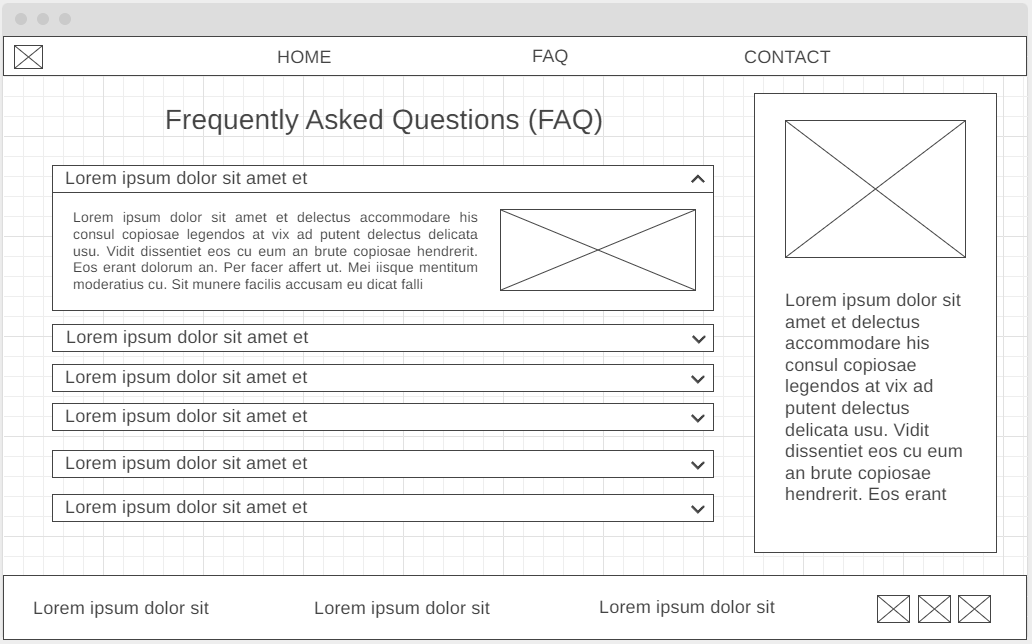
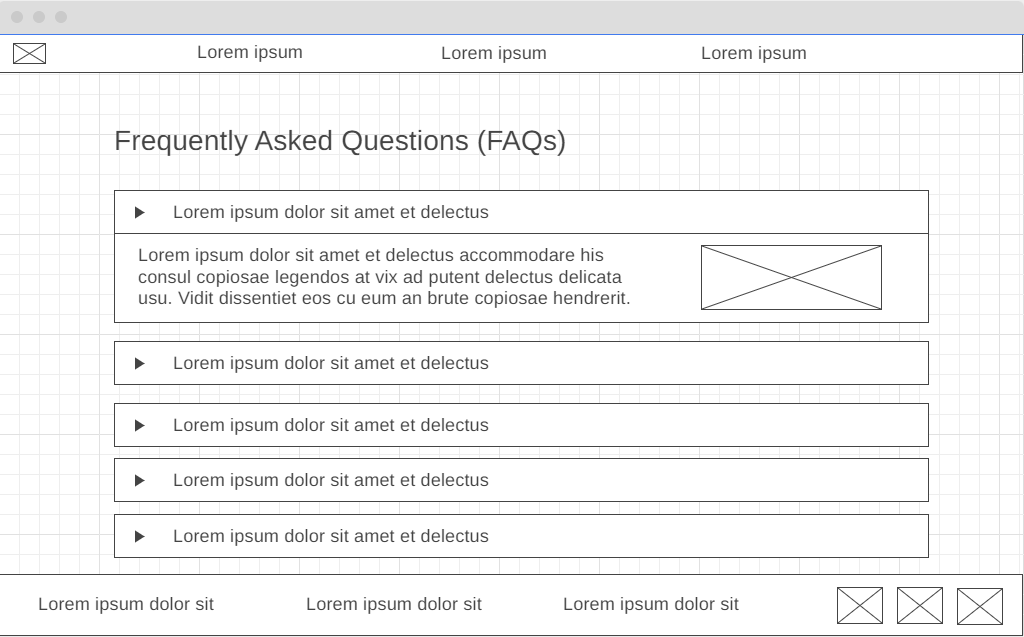
added FAQ page

diff --git a/wwr/faq.html b/wwr/faq.html
@@ -1,0 +1,92 @@
+<!DOCTYPE html>
+<html lang="en">
+
+<head>
+    <meta charset="UTF-8">
+    <meta http-equiv="X-UA-Compatible" content="IE=edge">
+    <meta name="viewport" content="width=device-width, initial-scale=1.0">
+    <title>Whitewater Rafting Vacations | Dry Oar Boating | Home</title>
+    <link rel="stylesheet" href="styles/style.css">
+</head>
+
+<body>
+    <div id="content">
+        <header>
+            <a id="logo_link" href="index.html">
+                <img class="logo" src="images/logo.png" alt="Dry Oar Logo">
+            </a>
+            <nav>
+                <a href="index.html">Home</a>
+                <a href="#">FAQs</a>
+                <a href="site-plan-rafting.html">Site Plan</a>
+                <a href="contactus.html">Contact Us</a>
+            </nav>
+        </header>
+        <main class="faqgrid">
+            <h1>Frequently Asked Questions (FAQs)</h1>
+            <details class="faq-dropdown">
+                <summary>Is this a good trip for kids? What are the age ranges you allow?</summary>
+                <div class="faq-content">
+                    <p>Absolutely this is a good trip for children of all ages. We have found however that children over the age of 8 seem to enjoy it more overall (And parents especially enjoy it more if their children are all over 8). A common concern we get from parents is that their children will be bored stuck on a boat for hours at a time. Surprisingly we deal with very few bored children of any age. The areas we are rafting through are some of the most beautiful in the world, and you never know what you might see around any corner. Not to mention the rapids which keep things very interesting. Each boat also comes equipped with a guide. It has been proven that river guides are unable to go for very long at all without telling stories... some of which are even true!</p>
+                    <img src="images/kids_rafting.jpg" class="faq-image">
+                </div>
+            </details>
+            <details class="faq-dropdown">
+                <summary>Is whitewater rafting safe? I don't even know how to swim! Can I still come?</summary>
+                <div class="faq-content">
+                    <p>As with all adventure sports, there is an inherent and assumed element of risk. To help ensure your safety, our guides are all certified in Wilderness First aid and all start with at least 3 years of rafting experience. The most common injuries are sunburns and injuries that occur on land.</p>
+                    <p>Everyone on commercial rafting trips wears coast guard approved life vest or personal flotation device (PFD). Many non swimmers go on rafting trips and have a great time. Your guide will give you an in depth and engaging safety talk before your trip begins explaining what you should prepare for and do in the event that you fall out of the raft.</p>
+                    <img src="images/rafting_safe.jpg" class="faq-image-2p">
+                </div>
+            </details>
+            <details class="faq-dropdown">
+                <summary>What is included in the trip?</summary>
+                <div class="faq-content">
+                    <p>We will provide all necessary camping equipment. This includes a sleeping bag, foam pad, waterproof duffle bag, small waterproof day bag, tent and a cot, eating utensils and camping chair.</p>
+                    <p>We provided water and lemonade during the day. Coffee, tea and hot chocolate are provided during the morning and evening hours. You may bring beer, liquor and soft drinks (in reasonable amounts, 2 cans per day). You may purchase these items either the night before the trip, or on your way to the put-in. 3 meals per day, plus snacks.</p>
+                    <img src="images/rafting_gear.jpg" class="faq-image-2p">
+                </div>
+            </details>
+            <details class="faq-dropdown">
+                <summary>What do I need to bring?</summary>
+                <div class="faq-content">
+                    <p>The most effective way to plan for temperature and weather changes in the Canyon is to be prepared for both hot & dry and cold & wet Rain jacket and rain pants- do not bring ponchos Quick dry shirts and shorts long sleeve cotton shirt and pants- helps keep you cooler on hot days. Button down shirts provide more sun protection on the neck Light Weight Cotton Pant, Nylon Pant or Sarong the best thing for men to wear are swim trunks as shorts if you are cold natured, bring polypropylene long underwear top and bottom Women wear swim suits or quick dry underwear and sport bras as a base layer during the day. Over the base layer, wear a pair of quick dry shorts and the shirt of your choice (polypropylene if you are cold, cotton if you are hot). Two piece swim suits are convenient when changing or going to the bathroom. hat- large brim hat offers protection from the sun with a good quality strap. Sunglasses with strap socks- used for hiking and to protect your feet from the sun. sandals or water shoes- if not used to hiking in these, bring a pair of shoes you have hiked in before camper wear: Bring something comfortable to wear around camp. Cotton dresses, skirts and sarongs are all popular options. Sleep wear: You might choose to sleep in your camp wear. Otherwise, you might like to bring something comfortable to sleep in. water bottle small day pack for hikes moisturizing lotion headlamp or flashlight moleskin waterproof sunscreen and lip balm optional items: gloves fleece jacket towel bandana small pillow hygiene products: toothpaste, toothbrush, tissue, nail clippers, feminine hygiene products, extra eyeglasses or contacts, biodegradable soap and shampoo camera equipment book, watercolors, journal and pen.</p>
+                    <img src="images/rafting_bring.jpg" class="faq-image">
+                </div>
+            </details>
+            <details class="faq-dropdown">
+                <summary>What is so great about whitewater rafting anyway?</summary>
+                <div class="faq-content">
+                    <p>Are you kidding me! What's not great about whitewater rafting!...Let's describe a common day on the river.</p>
+                    <p>Arise in the soft light of the early morning after a night spent sleeping under a beautiful starry sky. Have a hearty warm breakfast of fresh blueberry pancakes or omelets to order, then pack your things and prepare for the day. The day is filled with some combination of swift water, rapids, calms, hikes, history, geology, stories, and more good food. We try to hit camp around 4 or 5, after setting up your cot you can relax with a good book or good company by the river, or explore around camp while your guides prepare your dinner...something perhaps like steak and potatoes, or grilled salmon...and dutch oven brownies...you won't forget the dutch oven brownies. After dinner it's more relaxing, and you might even be able to talk your guide into another story or two to send you off to bed under more stars than you thought were possible.</p>
+                    <img src="images/rafting_great.jpg" class="faq-image-2p">
+                </div>
+            </details>
+            <details class="faq-dropdown">
+                <summary>How far in advance should I book my trip?</summary>
+                <div class="faq-content">
+                    <p>If you have specific dates you need, we recommend booking a year in advance. If you can be more flexible 6 months in advance is usually sufficient.                </p>
+                    <img src="images/rafting_book.jpg" class="faq-image">
+                </div>
+            </details>
+        </main>
+        <footer>
+            <p>Dry Oar &copy; 2022 - Florence Emilito Real</p>
+            <p><a href="site-plan-rafting.html">Site Plan</a></p>
+            <p><a href="contactus.html">Contact Us</a></p>
+            <div class="social">
+                <a href="https://facebook.com" target="_blank">
+                    <img src="images/facebook.png" alt="fb icon">
+                </a>
+                <a href="https://twitter.com" target="_blank">
+                    <img src="images/twitter.png" alt="twitter icon">
+                </a>
+                <a href="https://instagram.com" target="_blank">
+                    <img src="images/instagram.png" alt="instagram icon">
+                </a>
+            </div>
+        </footer>
+    </div>
+</body>
+
+</html>

diff --git a/wwr/styles/style.css b/wwr/styles/style.css
@@ -243,6 +243,71 @@ h2 {
     text-decoration: none;
 }
 
+.faqgrid {
+    margin: 50px auto;
+    max-width: 1200px;
+    width: 90%;
+}
+
+details {
+    margin-bottom: 20px;
+    box-shadow: 5px 5px 10px #808080;
+}
+
+.faq-image,
+.faq-image-2p {
+    width: 350px;
+    margin: auto;
+    filter: drop-shadow(10px 10px 0px #2296b0);
+    border-radius: 5px;
+    border: solid 1px #1a1a1a;
+}
+
+.faq-image-2p {
+    grid-column: 3/4;
+    grid-row: 1/3;
+}
+
+.faq-dropdown summary {
+    background: #2296b0;
+    padding: 20px;
+    color: #fff;
+    font-weight: 600;
+    letter-spacing: 1.5px;
+    cursor: pointer;
+}
+
+.faq-content {
+    display: grid;
+    grid-template-columns: 1fr 1fr 1fr;
+    padding: 20px;
+    background: #78c5d72e;
+    min-height: 275px;
+}
+
+.faq-content p {
+    grid-column: 1/3;
+    font-size: 18px;
+    margin: auto 25px;
+}
+
+.faq-dropdown summary:hover {
+    background: #78c5d7;
+}
+
+details[open] summary {
+    background: #78c5d7;
+}
+
+details[open] summary ~ * {
+  animation: sweep .5s ease-in-out;
+}
+
+@keyframes sweep {
+  0%    {opacity: 0; margin-left: -10px}
+  100%  {opacity: 1; margin-left: 0px}
+}
+
 @media screen and (max-width: 900px) {
     #hero, .home-grid {
         display: block;
@@ -282,5 +347,16 @@ h2 {
     }
     footer {
         margin-top: 25px;
+    }
+
+    .faq-content {
+        display: flex;
+        flex-direction: column-reverse;
+        gap: 30px;
+    }
+
+    .faq-image, .faq-image-2p {
+        max-width: 350px;
+        width: 90%;
     }
 }

diff --git a/wwr/index.html b/wwr/index.html
@@ -17,7 +17,7 @@
             </a>
             <nav>
                 <a href="index.html">Home</a>
-                <a href="#">Page 2</a>
+                <a href="#">FAQs</a>
                 <a href="site-plan-rafting.html">Site Plan</a>
                 <a href="contactus.html">Contact Us</a>
             </nav>
